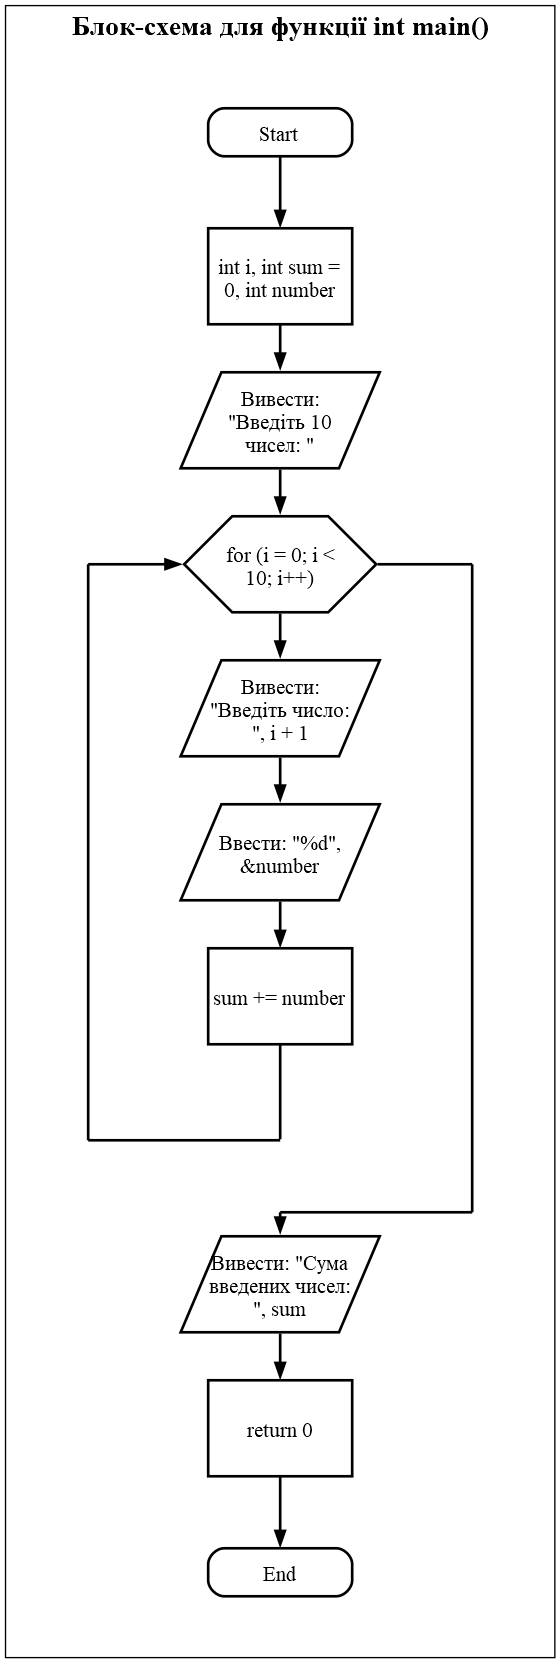
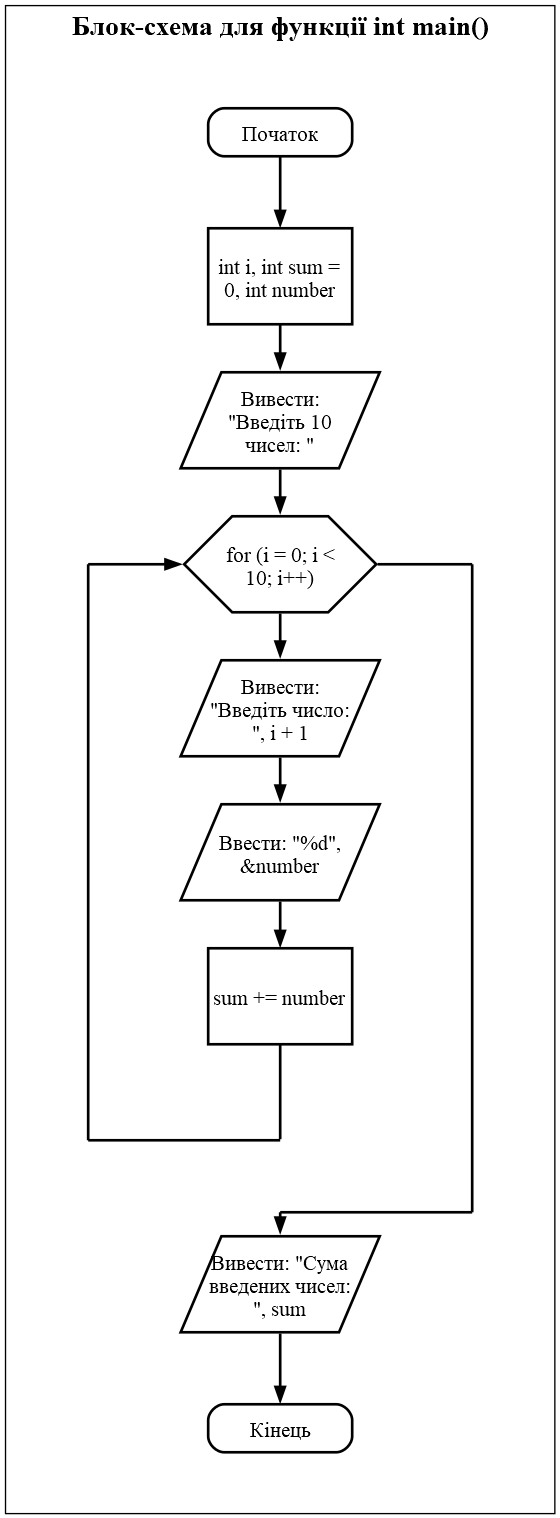
fix

diff --git a/flowchart_generator.py b/flowchart_generator.py
@@ -223,7 +223,7 @@ def generate_flowchart(c_code):
         while_node_id = add_special_node(label, shape='diamond', cluster=cluster, x=12)
         loop_start_y = y_position
         if parent_id:
-            cluster.edge(f"{parent_id}:{tailport}", f"{while_node_id}:{headport}", label=edge_label, fontsize=str(global_settings["edge_fontsize"]), penwidth=str(global_settings["edge_penwidth"]), arrowhead=global_settings["edge_arrows"])
+            cluster.edge(f"{parent_id}:{tailport}", f"{while_node_id}:{headport}", fontsize=str(global_settings["edge_fontsize"]), penwidth=str(global_settings["edge_penwidth"]), arrowhead=global_settings["edge_arrows"])
         
         body_id, body_tailport = traverse_ast(node.stmt, while_node_id, cluster, tailport='s', headport='n', depth=depth + 1)
 
@@ -264,7 +264,7 @@ def generate_flowchart(c_code):
         cluster.edge(f"{bend_point_below_id}:w", f"{bend_point_left_id}:e", fontsize=str(global_settings["edge_fontsize"]), penwidth=str(global_settings["edge_penwidth"]), arrowhead='none')
         cluster.edge(f"{bend_point_left_id}:n", f"{bend_point_above_id}:s", fontsize=str(global_settings["edge_fontsize"]), penwidth=str(global_settings["edge_penwidth"]), arrowhead='none')
         cluster.edge(f"{bend_point_above_id}:e", f"{while_node_id}:w", fontsize=str(global_settings["edge_fontsize"]), penwidth=str(global_settings["edge_penwidth"]), arrowhead=global_settings["loopback_arrows"])
-        cluster.edge(f"{while_node_id}:e", f"{bend_point_right_id}:w", fontsize=str(global_settings["edge_fontsize"]), penwidth=str(global_settings["edge_penwidth"]), arrowhead='none')
+        cluster.edge(f"{while_node_id}:e", f"{bend_point_right_id}:w", label="Ні", fontsize=str(global_settings["edge_fontsize"]), penwidth=str(global_settings["edge_penwidth"]), arrowhead='none')
 
         if depth == 0:
             cluster.edge(f"{bend_point_right_id}:s", f"{additional_node_id}:n", fontsize=str(global_settings["edge_fontsize"]), penwidth=str(global_settings["edge_penwidth"]), arrowhead='none')
@@ -308,7 +308,7 @@ def generate_flowchart(c_code):
                 content_y_position = case_y_position - 1.5
                 last_stmt_id = case_node_id
                 for stmt in case.stmts:
-                    stmt_id, stmt_tailport = traverse_ast(stmt, last_stmt_id, cluster, edge_label="true", depth=depth + 1, x=case_x_positions[i], y_pos=content_y_position)
+                    stmt_id, stmt_tailport = traverse_ast(stmt, last_stmt_id, cluster, edge_label="Так", depth=depth + 1, x=case_x_positions[i], y_pos=content_y_position)
                     content_y_position -= 1.5
                     last_stmt_id = stmt_id
                 max_y_positions.append(content_y_position)
@@ -324,13 +324,13 @@ def generate_flowchart(c_code):
                     cluster.edge(f"{switch_point_id}:e", f"{case_point_id}:w", fontsize=str(global_settings["edge_fontsize"]), penwidth=str(global_settings["edge_penwidth"]), arrowhead='none')
                     cluster.edge(f"{case_point_id}:s", f"{default_node_id}:n", fontsize=str(global_settings["edge_fontsize"]), penwidth=str(global_settings["edge_penwidth"]), arrowhead=global_settings["edge_arrows"])
                 else:
-                    cluster.edge(f"{previous_case_id}:e", f"{default_node_id}:w", label="false", fontsize=str(global_settings["edge_fontsize"]), penwidth=str(global_settings["edge_penwidth"]), arrowhead=global_settings["edge_arrows"])
+                    cluster.edge(f"{previous_case_id}:e", f"{default_node_id}:w", label="Ні", fontsize=str(global_settings["edge_fontsize"]), penwidth=str(global_settings["edge_penwidth"]), arrowhead=global_settings["edge_arrows"])
                 previous_case_id = default_node_id
 
                 content_y_position = case_y_position - 1.5
                 last_stmt_id = default_node_id
                 for stmt in case.stmts:
-                    stmt_id, stmt_tailport = traverse_ast(stmt, last_stmt_id, cluster, edge_label="true", depth=depth + 1, x=case_x_positions[i], y_pos=content_y_position)
+                    stmt_id, stmt_tailport = traverse_ast(stmt, last_stmt_id, cluster, edge_label="Так", depth=depth + 1, x=case_x_positions[i], y_pos=content_y_position)
                     content_y_position -= 1.5
                     last_stmt_id = stmt_id
                 max_y_positions.append(content_y_position)
@@ -366,7 +366,7 @@ def generate_flowchart(c_code):
         current_y = y_position
 
         y_position = current_y
-        true_branch_id, true_tailport = traverse_ast(node.iftrue, if_node_id, cluster, edge_label="True", tailport='s', headport='n', depth=depth + 1, x=true_branch_x)
+        true_branch_id, true_tailport = traverse_ast(node.iftrue, if_node_id, cluster, edge_label="Так", tailport='s', headport='n', depth=depth + 1, x=true_branch_x)
 
         x_position_inner = x + 1.3
         x_position_outer = x_position_inner
@@ -381,8 +381,8 @@ def generate_flowchart(c_code):
 
         last_true_point_id = add_node("", shape='point', width=0.1, height=0.1, cluster=cluster, x=x, pos=f"{x},{current_y - 0.75}!")
 
-        cluster.edge(f"{if_node_id}:e", f"{true_bend_point1_id}:w", fontsize=str(global_settings["edge_fontsize"]), penwidth=str(global_settings["edge_penwidth"]), arrowhead='none')
-        cluster.edge(f"{true_bend_point1_id}:s", f"{true_bend_point2_id}:n", fontsize=str(global_settings["edge_fontsize"]), penwidth=str(global_settings["edge_penwidth"]), arrowhead='none')
+        cluster.edge(f"{if_node_id}:e",f"{true_bend_point1_id}:w", fontsize=str(global_settings["edge_fontsize"]), penwidth=str(global_settings["edge_penwidth"]), arrowhead='none')
+        cluster.edge(f"{true_bend_point1_id}:s", f"{true_bend_point2_id}:n", label="Ні", fontsize=str(global_settings["edge_fontsize"]), penwidth=str(global_settings["edge_penwidth"]), arrowhead='none')
         cluster.edge(f"{true_bend_point2_id}:e", f"{last_true_point_id}:w", fontsize=str(global_settings["edge_fontsize"]), penwidth=str(global_settings["edge_penwidth"]), arrowhead=global_settings["edge_arrows"])
 
         return true_branch_id, 's'
@@ -407,10 +407,10 @@ def generate_flowchart(c_code):
         cluster.edge(f"{if_node_id}:e", f"{false_bend_point_id}:w", fontsize=str(global_settings["edge_fontsize"]), penwidth=str(global_settings["edge_penwidth"]), arrowhead='none')
 
         y_position = current_y
-        true_branch_id, true_tailport = traverse_ast(node.iftrue, true_bend_point_id, cluster, edge_label="True", tailport='s', headport='n', depth=depth + 1, x=true_branch_x)
+        true_branch_id, true_tailport = traverse_ast(node.iftrue, true_bend_point_id, cluster, edge_label="Так", tailport='s', headport='n', depth=depth + 1, x=true_branch_x)
 
         y_position = current_y
-        false_branch_id, false_tailport = traverse_ast(node.iffalse, false_bend_point_id, cluster, edge_label="False", tailport='s', headport='n', depth=depth + 1, x=false_branch_x)
+        false_branch_id, false_tailport = traverse_ast(node.iffalse, false_bend_point_id, cluster, edge_label="Ні", tailport='s', headport='n', depth=depth + 1, x=false_branch_x)
 
         concentrator_y = min(y_position, current_y) + 0.75
 
@@ -529,11 +529,11 @@ def generate_flowchart(c_code):
             with dot.subgraph(name=f'cluster_{ext.decl.name}') as cluster:
                 cluster.attr(label=f"< <B>Блок-схема для функції {func_decl}</B> >", labelloc="t", fontsize=str(global_settings["cluster_fontsize"]), margin=str(global_settings["cluster_margin"]))
                 cluster.attr(overlap='true')
-                start_id = add_node('Start', shape='Mrecord', height=global_settings["start_end_height"], cluster=cluster, pos=f"12,{y_position}!")
+                start_id = add_node('Початок', shape='Mrecord', height=global_settings["start_end_height"], cluster=cluster, pos=f"12,{y_position}!")
                 y_position -= 1.5
                 max_depth_y = y_position
                 parent_id, tailport = traverse_ast(ext.body, start_id, cluster, depth=0, x=12)
-                end_id = add_node('End', shape='Mrecord', height=global_settings["start_end_height"], cluster=cluster, pos=f"12,{max_depth_y}!")
+                end_id = add_node('Кінець', shape='Mrecord', height=global_settings["start_end_height"], cluster=cluster, pos=f"12,{max_depth_y}!")
                 y_position = max_depth_y
                 cluster.edge(f"{parent_id}:{tailport}", f"{end_id}:n", fontsize=str(global_settings["edge_fontsize"]), penwidth=str(global_settings["edge_penwidth"]), arrowhead=global_settings["edge_arrows"])
             cluster_ids.append(f'cluster_{ext.decl.name}')
